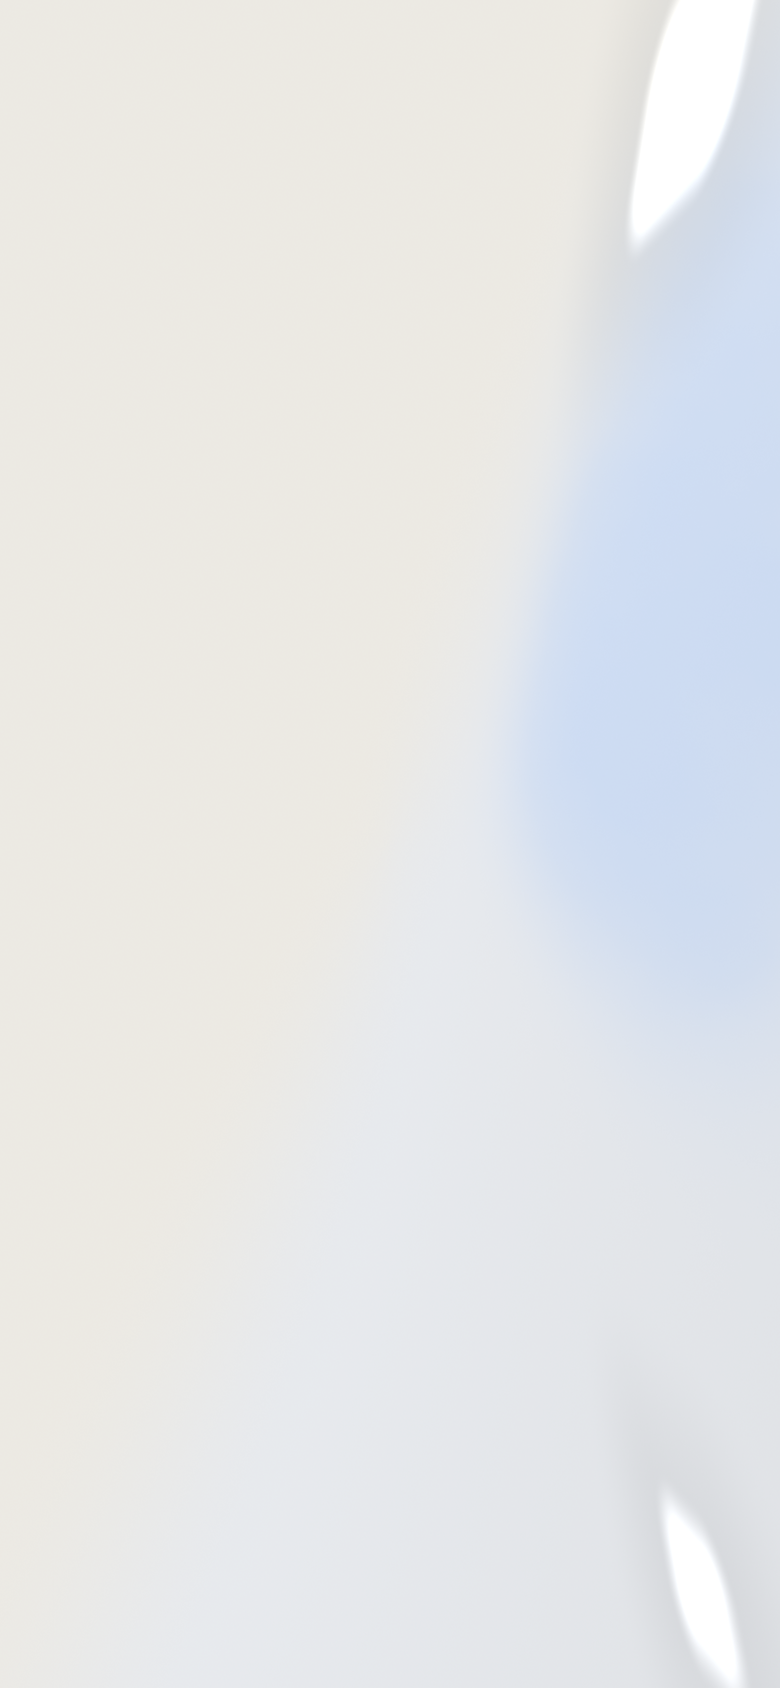
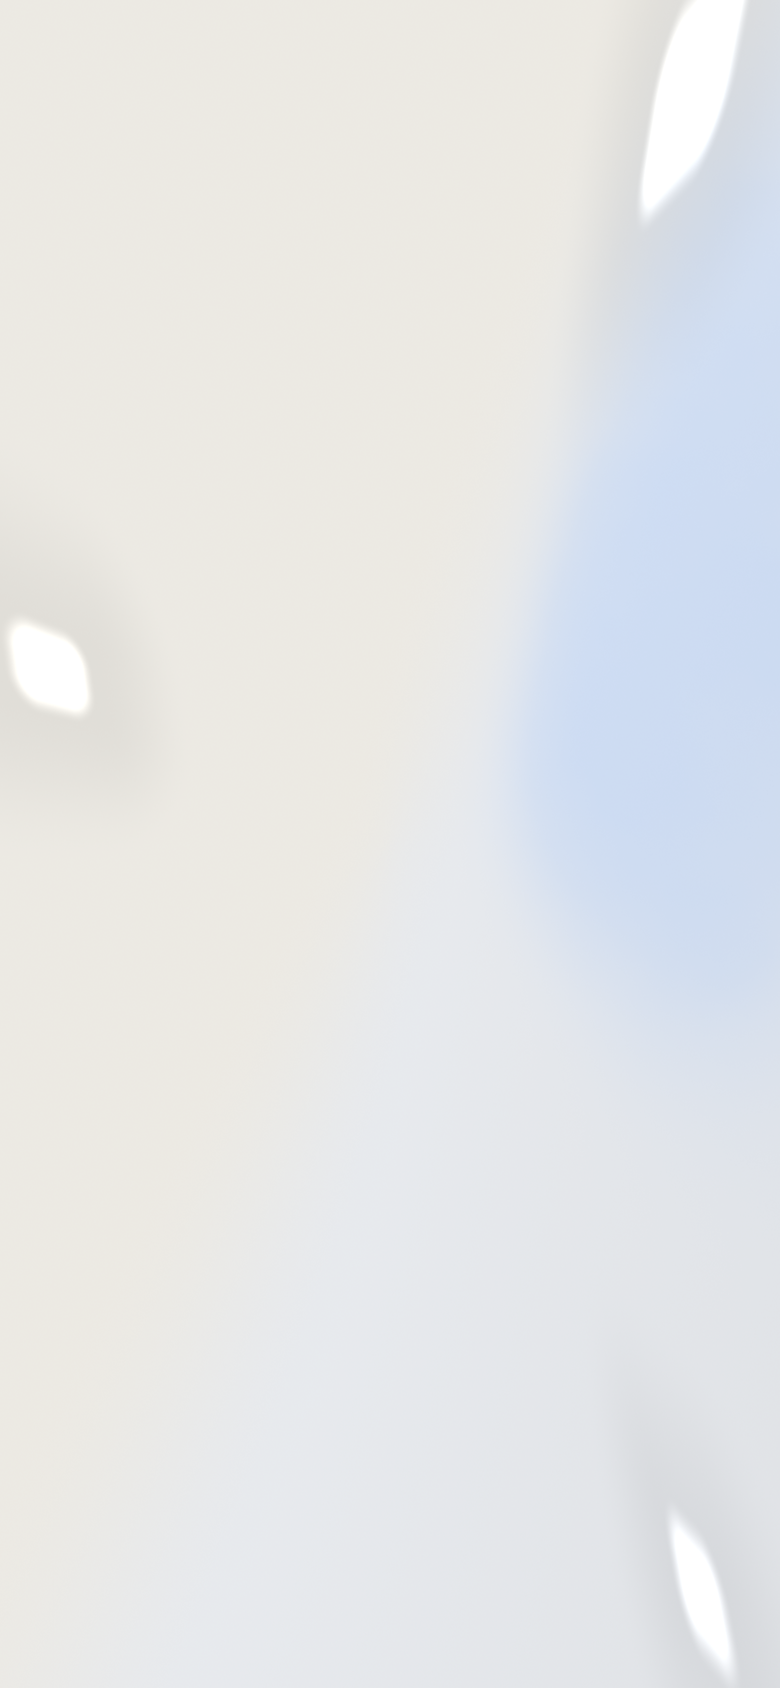
Front page: first screen ends at Continue; small glint added on the left; glints smaller
Claude-Session: https://claude.ai/code/session_01DRAcaZvypgnSaCTMdJvvGx

diff --git a/moonstone/moon.html b/moonstone/moon.html
@@ -35,10 +35,12 @@ void main(){
   vec3 r=reflect(-V,N);
   float h1=rbox(r.xy,vec2(.613,.468),vec2(.12,.09),.07,.07);
   float h2=rbox(r.xy,vec2(.628,-.461),vec2(.08,.06),.05,.06);
-  c*=1.-.05*max(h1,h2);
-  float g1=rbox(r.xy,vec2(.613,.468),vec2(.05,.034),.02,.022);
-  float g2=rbox(r.xy,vec2(.628,-.461),vec2(.028,.02),.014,.018);
-  c+=vec3(1.)*(g1*.62+g2*.36);
+  float h3=rbox(r.xy,vec2(-.787,.123),vec2(.10,.08),.06,.06);
+  c*=1.-.05*max(max(h1,h2),h3);
+  float g1=rbox(r.xy,vec2(.613,.468),vec2(.040,.027),.016,.018);
+  float g2=rbox(r.xy,vec2(.628,-.461),vec2(.022,.016),.011,.014);
+  float g3=rbox(r.xy,vec2(-.787,.123),vec2(.026,.019),.012,.014);
+  c+=vec3(1.)*(g1*.62+g2*.36+g3*.5);
   c=min(c,vec3(1.));
   c+=(hash(vec3(gl_FragCoord.xy,1.))-.5)/255.;
   gl_FragColor=vec4(clamp(c,0.,1.),1.);

diff --git a/moonstone/moonstone-look.css b/moonstone/moonstone-look.css
@@ -18,3 +18,7 @@ html.red .row-time .ampm-field select,html.red .row-time .ampm-field select opti
 html.red .chk-box{background:rgba(255,255,255,.55) !important;border-radius:6px !important;
   box-shadow:inset 0 1px 3px rgba(60,60,70,.3),0 1px 0 rgba(255,255,255,.9) !important}
 html.red .toggle-pill::after{background:radial-gradient(circle at 35% 30%,#fff 0,#dfe4ea 35%,#8d97a1 75%,#6a737d 100%) !important}
+/* the first screen ends at the Continue button: everything after it starts below the fold */
+html.red #hookStep{min-height:calc(100svh - 22px)}
+html.red #hookStep .r-b22{margin-top:30px}
+html.red #hookStep .hero-email-wrap{margin-top:34px}
